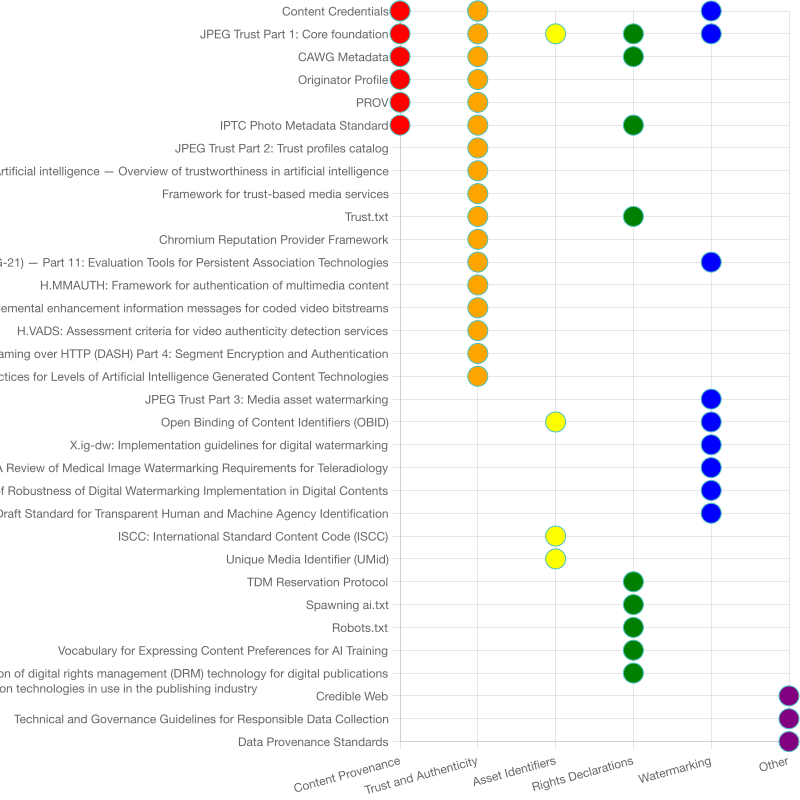
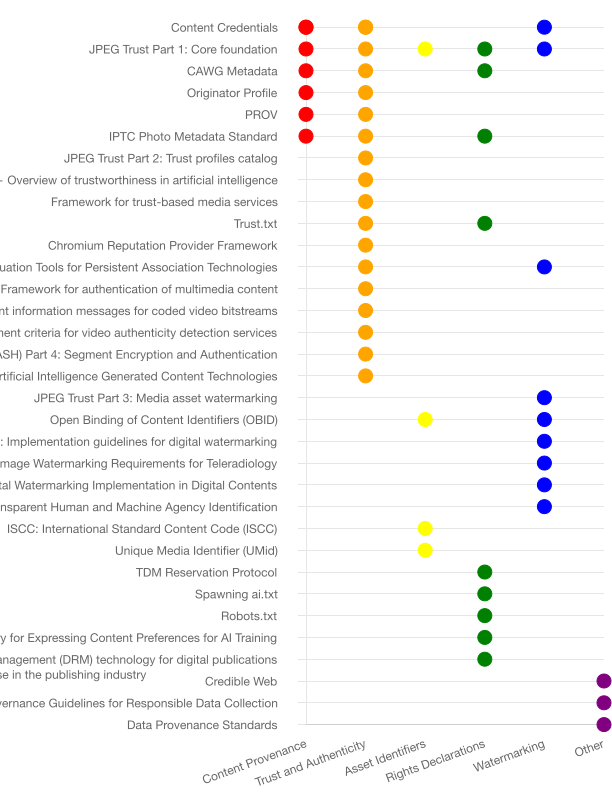
improved the output L&F of the bubble chart

diff --git a/tools/excel-to-markdown/src/bubbles.js b/tools/excel-to-markdown/src/bubbles.js
@@ -35,7 +35,7 @@ export async function createBubbleChartPNG(data, outputPath) {
 				return 'rgba(75,192,192,1)'
 	};
 
-	
+
 	// Extract unique categories (x) and standards (y) from the data hierarchy
 	function extractCategoriesAndStandards(node, categories = new Set(), standards = new Set()) {
 		if (node.children && node.children.length) {
@@ -53,7 +53,8 @@ export async function createBubbleChartPNG(data, outputPath) {
 		if (node.children && node.children.length) {
 			node.children.forEach(child => getLeavesWithParent(child, node.name, arr));
 		} else {
-			arr.push({ x: parentName, y: node.name, r: 10 });
+			// r is the radius for the bubble, defaulting to 7
+			arr.push({ x: parentName, y: node.name, r: 7 });
 		}
 		return arr;
 	}
@@ -73,7 +74,11 @@ export async function createBubbleChartPNG(data, outputPath) {
 			borderDash: [],
 			borderDashOffset: 0.0,
 			borderJoinStyle: 'miter',
-			pointBorderColor: pointBorderColor(),
+			pointBorderColor:  (context) => {
+				const index = context.dataIndex; // Get data point index
+				const xValue = context.dataset.data[index].x; // Get X-value
+				return pointColor(xValue); // Return color based on X-value
+			},
 			pointBackgroundColor: (context) => {
 				const index = context.dataIndex; // Get data point index
 				const xValue = context.dataset.data[index].x; // Get X-value
@@ -85,14 +90,15 @@ export async function createBubbleChartPNG(data, outputPath) {
 			pointHoverBorderColor: "rgba(153, 102, 155, 1)",
 			pointHoverBorderWidth: 2,
 			pointRadius: 1,
-			pointHitRadius: 10,
+			pointHitRadius: 5,
 			data: bubbleDataPoints
 		}]
 	};
 
 
-	const width = 800;
-	const height = 800;
+	// 8.5 x 11 inches in pixels at 72 DPI is 612 x 792 pixels
+	const width = 612; // Width of the chart
+	const height = 792; // Height of the chart
 
 	const chartJSNodeCanvas = new ChartJSNodeCanvas({ width, height, backgroundColour: 'white' });
 	const configuration = {
@@ -106,15 +112,31 @@ export async function createBubbleChartPNG(data, outputPath) {
 			legend: {
 				display: false
 			},
+			font: {
+				family: 'OpenSans, sans-serif'
+			},
 			plugins: {
 				legend: {
 					display: false
 				},
 			},
+			elements: {
+				point: {
+					radius: (context) => {
+						// Set bubble size based on data.r (default is 5 in getLeavesWithParent)
+						const index = context.dataIndex;
+						const value = context.dataset.data[index];
+						return value && value.r ? value.r : 5;
+					}
+				}
+			},
 			scales: {
 				y: {
 					// will this create y-axis with days of week?
 					type: 'category',
+					ticks: {
+						padding: 20 // Add padding to the right of y-axis labels
+					}
 				},
 				x: {
 					type: 'category',
@@ -125,7 +147,10 @@ export async function createBubbleChartPNG(data, outputPath) {
 						"Rights Declarations",
 						"Watermarking",
 						"Other"
-					]
+					],
+					grid: {
+						display: false // Turn off vertical grid lines
+					}
 				}
 			}
 		}
